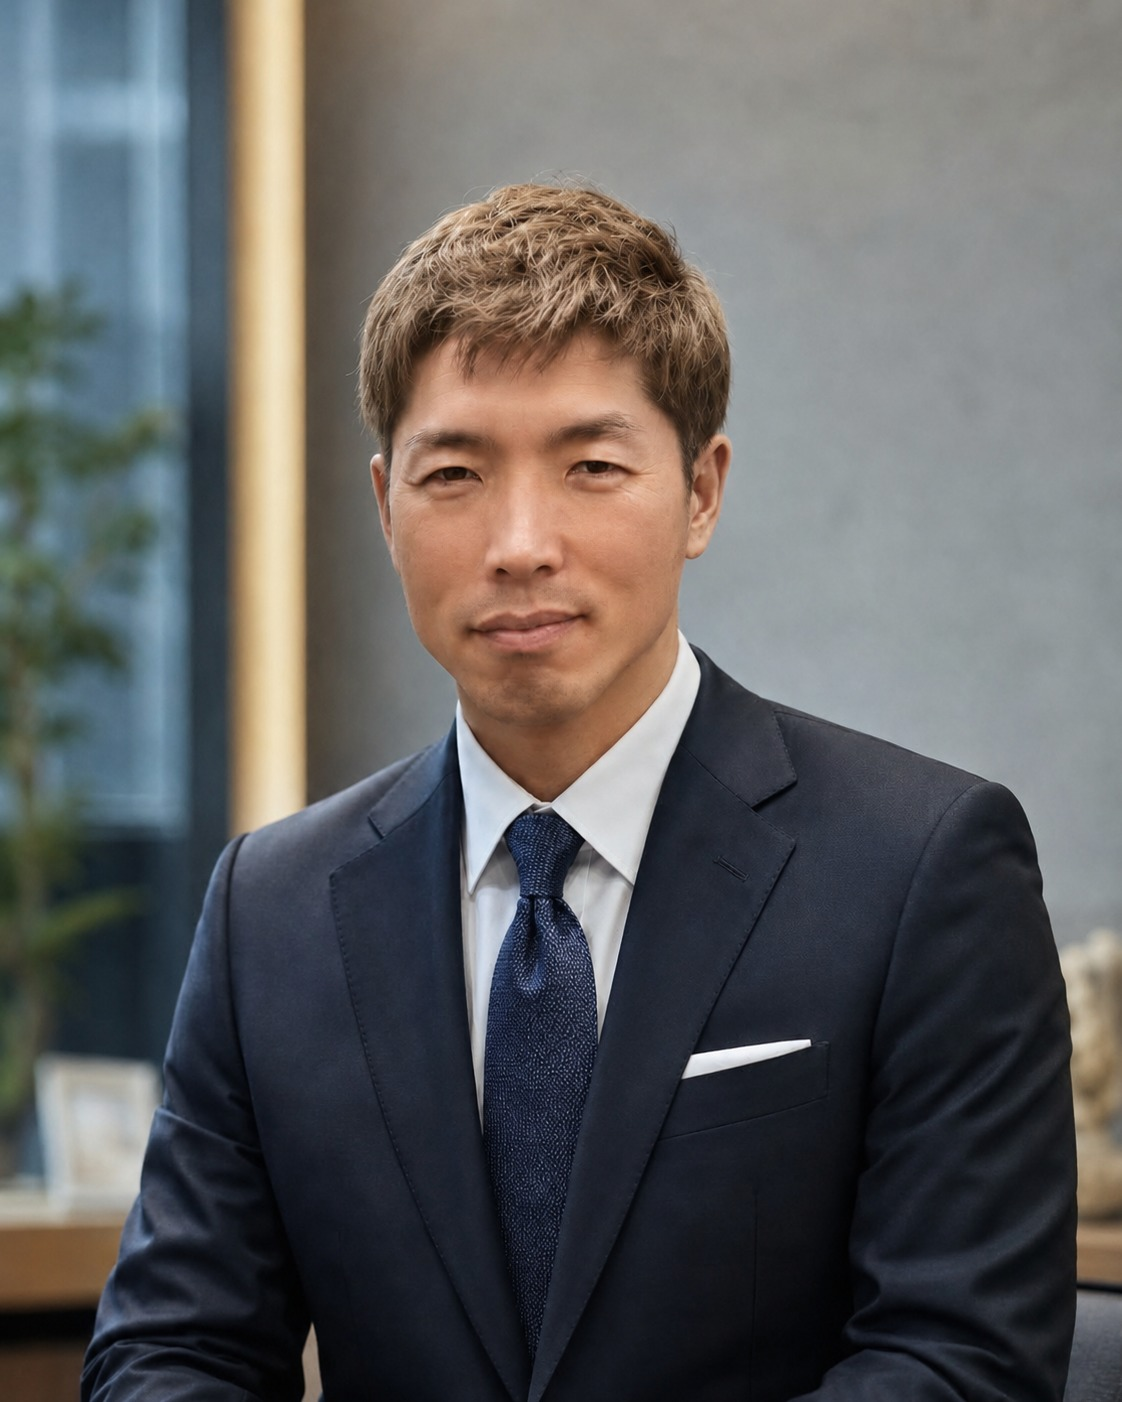
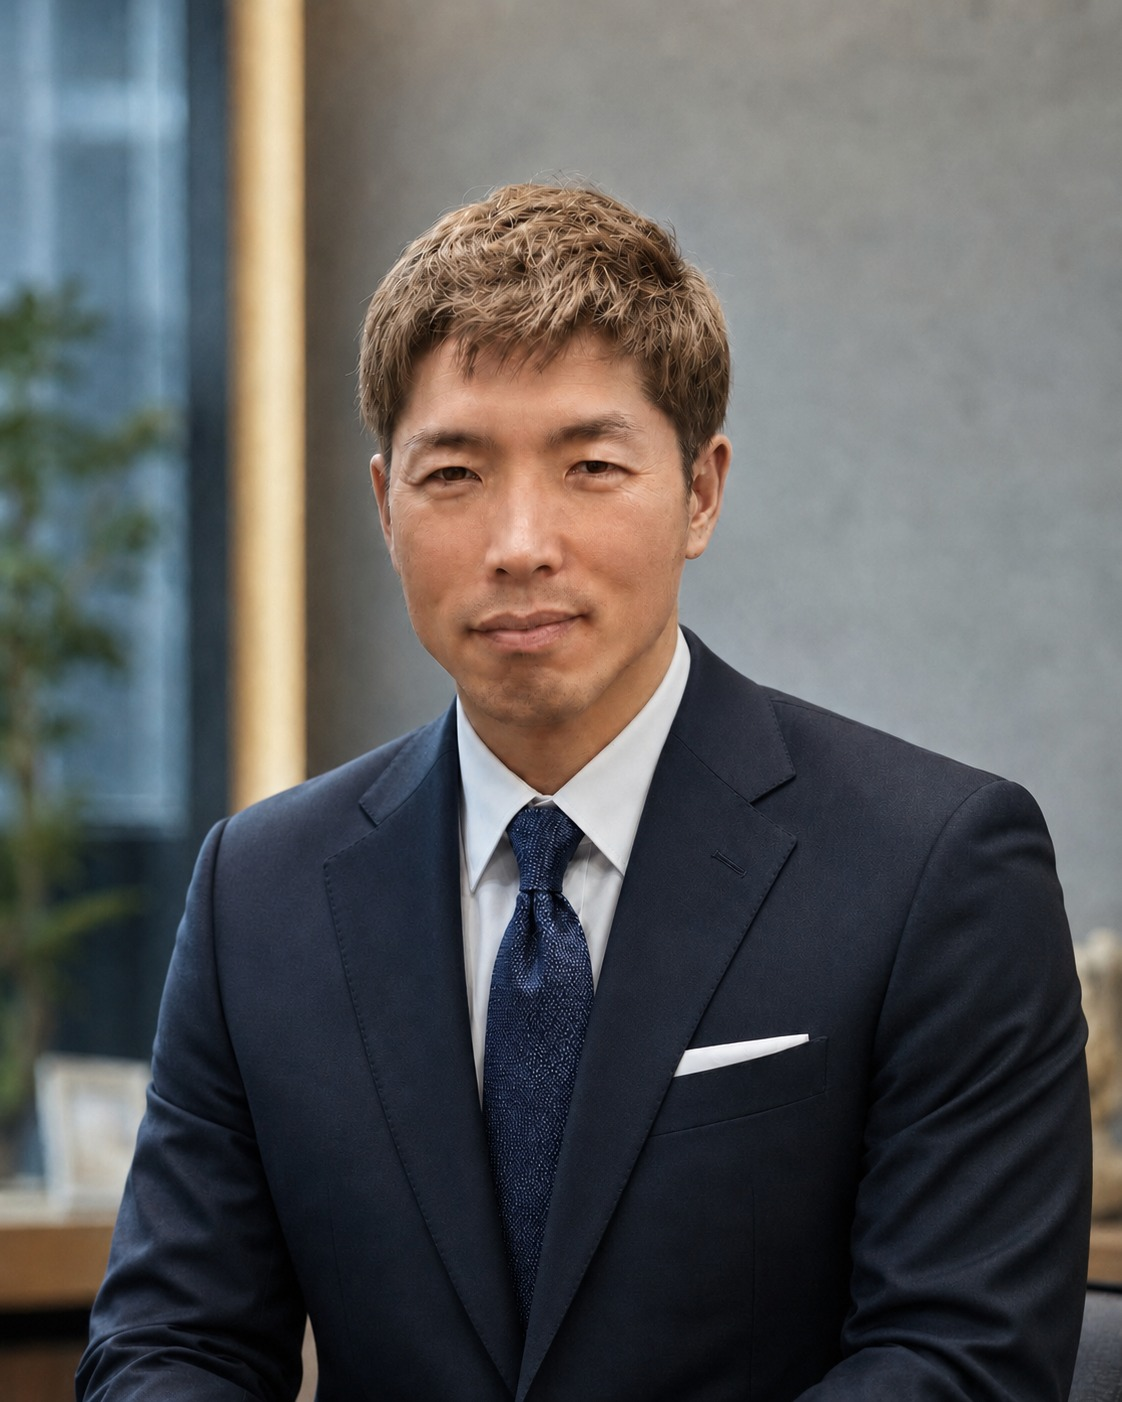
Add files via upload

diff --git a/assets/style.css b/assets/style.css
@@ -1048,3 +1048,42 @@ section { scroll-margin-top: 88px; }
 /* Representative message: separate page */
 .subpage{padding-top:76px}.subpage-hero{padding:110px max(5vw,28px) 80px;color:#fff;background:linear-gradient(135deg,rgba(7,53,46,.98),rgba(13,75,63,.88)),var(--green-dark)}.subpage-hero-inner{width:min(1180px,100%);margin:0 auto}.subpage-hero .section-index{margin-bottom:10px;color:var(--lime);font-size:11px;font-weight:900;letter-spacing:.2em}.subpage-hero h1{margin:0 0 16px;font-family:"Yu Mincho","Hiragino Mincho ProN",serif;font-size:clamp(38px,5vw,64px);font-weight:600;letter-spacing:.12em}.subpage-hero p:last-child{margin:0;color:rgba(255,255,255,.74);font-size:14px}.message-detail{padding:100px max(5vw,28px);background:#fff}.message-detail-inner{width:min(1100px,100%);margin:0 auto;display:grid;grid-template-columns:minmax(300px,420px) minmax(0,1fr);gap:64px;align-items:start}.message-detail-photo{position:sticky;top:110px;overflow:hidden;background:#e8eceb;box-shadow:var(--shadow)}.message-detail-photo img{width:100%;display:block;object-fit:cover}.message-detail-content{padding-top:12px}.message-detail-lead{margin-bottom:32px;color:var(--green);font-family:"Yu Mincho","Hiragino Mincho ProN",serif;font-size:clamp(25px,3.1vw,40px);line-height:1.65;letter-spacing:.08em}.message-detail-content .message-body p{margin-bottom:22px;color:var(--muted);font-size:15px}.message-signature{margin-top:42px;padding-top:28px;border-top:1px solid var(--line);text-align:right}.message-signature small,.message-signature span{display:block;color:var(--muted);font-size:11px}.message-signature strong{display:block;margin:5px 0;color:var(--ink);font-size:18px;letter-spacing:.08em}.back-home-link{min-width:230px;margin-top:42px;padding:15px 20px;display:inline-flex;justify-content:space-between;border:1px solid var(--green);color:var(--green);font-size:12px;font-weight:800}.back-home-link:hover{color:#fff;background:var(--green)}
 @media(max-width:760px){.subpage{padding-top:68px}.subpage-hero{padding:80px 22px 60px}.message-detail{padding:70px 22px}.message-detail-inner{grid-template-columns:1fr;gap:34px}.message-detail-photo{position:static;max-width:480px;margin:0 auto}.message-detail-lead{font-size:27px}.message-detail-content .message-body p{font-size:14px}}
+
+
+/* Representative photo: casual download deterrence */
+.message-detail-photo.protected-photo {
+  position: sticky;
+  top: 110px;
+  aspect-ratio: 561 / 701;
+  background:
+    #e8eceb
+    url("images/president-takeda-minoru.jpg")
+    center center / cover
+    no-repeat;
+  -webkit-user-select: none;
+  user-select: none;
+  -webkit-touch-callout: none;
+  touch-action: pan-y;
+}
+.protected-photo-shield {
+  position: absolute;
+  inset: 0;
+  z-index: 2;
+  display: block;
+  background: transparent;
+  cursor: default;
+}
+.message-detail-photo.protected-photo::after {
+  content: "";
+  position: absolute;
+  inset: 0;
+  z-index: 1;
+  pointer-events: none;
+}
+@media (max-width: 760px) {
+  .message-detail-photo.protected-photo {
+    position: relative;
+    top: auto;
+    width: min(100%, 480px);
+  }
+}

diff --git a/assets/script.js b/assets/script.js
@@ -34,4 +34,21 @@
 
   updateHeader();
   year.textContent = new Date().getFullYear();
+
+// 代表写真の右クリック保存・ドラッグ保存を抑止します。
+// ブラウザで表示される画像を完全に取得不能にするものではありません。
+document.querySelectorAll("[data-protected-image]").forEach((element) => {
+  element.addEventListener("contextmenu", (event) => {
+    event.preventDefault();
+  });
+
+  element.addEventListener("dragstart", (event) => {
+    event.preventDefault();
+  });
+
+  element.addEventListener("selectstart", (event) => {
+    event.preventDefault();
+  });
+});
+
 })();

diff --git a/message.html b/message.html
@@ -37,7 +37,12 @@
     </section>
     <section class="message-detail">
       <div class="message-detail-inner">
-        <div class="message-detail-photo"><img src="assets/images/president-takeda-minoru.jpg" alt="株式会社尊建設 代表取締役 竹田実" loading="lazy"></div>
+        <div class="message-detail-photo protected-photo"
+             data-protected-image
+             role="img"
+             aria-label="株式会社尊建設 代表取締役 竹田実">
+          <span class="protected-photo-shield" aria-hidden="true"></span>
+        </div>
         <article class="message-detail-content">
           <p class="message-detail-lead">一つひとつの現場に誠実に向き合い、<br>地域の安心と信頼を築いてまいります。</p>
           <div class="message-body">

diff --git a/README.md b/README.md
@@ -111,3 +111,15 @@
 - 代表あいさつページの写真を、肌つやを自然に整えた写真へ差し替え
 - 掲載画像：`assets/images/president-takeda-minoru.jpg`
 - トップページには顔写真を表示せず、`message.html`でのみ表示
+
+
+## 2026-07-12 代表写真の保存抑止
+
+- 代表写真を最新の肩幅調整済み画像へ更新
+- 写真をCSS背景として表示
+- 写真上の右クリックメニューを抑止
+- ドラッグ保存と長押しメニューを抑止
+- 写真は引き続き `message.html` のみで表示
+
+※Webブラウザに表示する画像の取得を完全に防ぐことはできません。
+この対応は、通常の右クリック保存やドラッグ保存をしにくくするためのものです。